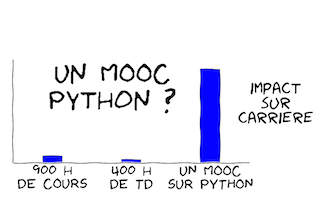
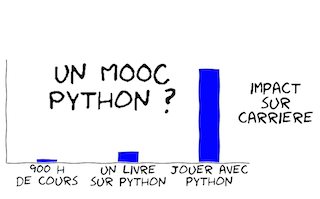
le dernier (j'espere) consensus sur le visuel

Changed region(s): [[0.0, 0.3015, 0.8125, 0.9648], [0.5938, 0.3317, 0.625, 0.3618]]

diff --git a/00-teaser/xkcd2.py b/00-teaser/xkcd2.py
@@ -17,7 +17,7 @@ x,y= 324, 201
 fact=3
 fig = plt.figure(dpi=dpi,figsize=(fact*float(x)/dpi,fact*float(y)/dpi))
 
-fig.subplots_adjust(left=0.04,right=0.78,bottom=0.18,top=0.7)
+fig.subplots_adjust(left=0.02,right=0.78,bottom=0.18,top=0.7)
 
 fig.text(0.86,0.39,"impact\nsur\ncarriere",ha='center', fontsize=36)
 
@@ -32,16 +32,16 @@ ax.spines['top'].set_color('none')
 
 ax.set_xlim([-0.5, 2.5])
 ax.set_ylim([0, 110])
-ax.bar([i-0.125 for i in range(3)], [8, 4, 100], 0.25)
+ax.bar([i-0.125 for i in range(3)], [4, 12, 100], 0.25)
 
 ax.xaxis.set_ticks_position('bottom')
 ax.tick_params(size=0)
 ax.set_xticks([0, 1, 2])
-ax.set_xticklabels(["900 h\nDE COURS", 
-                    "400 h\nDE TD", 
-                    "UN MOOC\nSUR PYTHON"])
+ax.set_xticklabels(["900 h\nde cours", 
+                    "un livre\nsur python", 
+                    "jouer avec\npython"])
 for tick in ax.xaxis.get_major_ticks():
-    tick.label.set_fontsize(32) 
+    tick.label.set_fontsize(28) 
 plt.yticks([])
 #ax.set_ylabel("impact\nsur\ncarriere", rotation='horizontal',
 #              labelpad=80, va='center', fontsize=26)
